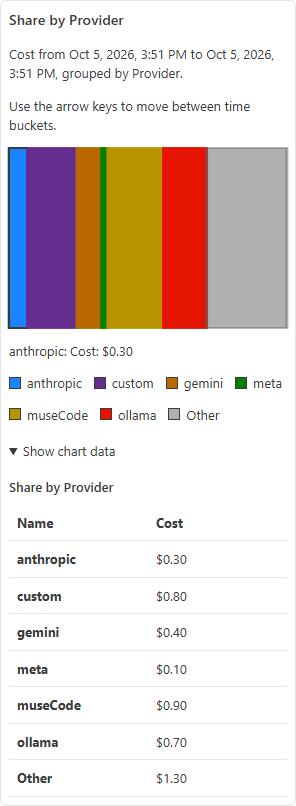
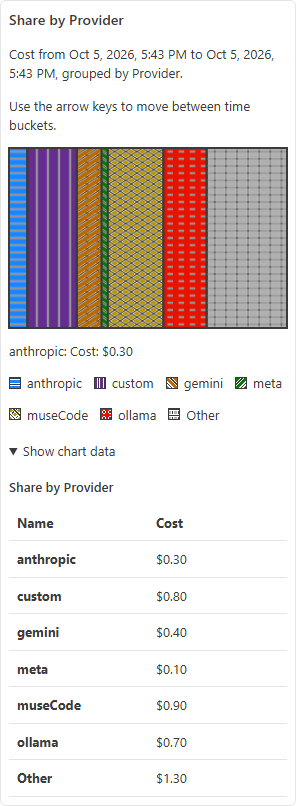
docs(usage): record review fix drills and final browser receipts
Record all four repaired findings, eight byte-exact failure drills,
107 passing unit tests and 480 passing production browser cases. Refresh
and inspect the three chart/narrow-layout screenshots, and retain the
named L/W integration dependencies without weakening any gate.

diff --git a/docs/certification/m102-u.md b/docs/certification/m102-u.md
@@ -2,7 +2,7 @@
 
 ## RVM102U correction receipts — FIXM102U, 2026-10-05
 
-All four review P2 findings are being repaired in lane U on the Windows 11
+All four review P2 findings are repaired in lane U on the Windows 11
 rig, with no dependency, protocol or gate change. The shared React page
 delivers each repair through VS Code, HTTP, JCEF, WebView2 and SWT; native
 editor installations and integrated gates remain the lead's certification.
@@ -68,6 +68,84 @@ again. The three entry/bridge/dialog files pass **49/49**, for **107/107**
 owned tests without filtering or skips. All five TypeScript projects,
 targeted ESLint and usage Stylelint pass. The browser matrix also now checks
 consecutive custom-date focus and JCEF/WebView2/SWT send failure recovery.
+
+Supplemental new-test controls also fire: replacing per-figure pattern ids
+with shared ids fails `keeps pattern references unique when multiple charts
+share the document` in the complete chart file, then removing the red
+legend motif fails `Missing legend pattern` in the complete four-theme
+contrast script. Both exit 1, restore byte-exact, and return to green:
+**20/20** chart tests and the whole contrast script pass. ChartFrame's
+restored SHA-256 is
[1 lines of base64/hex data omitted]
+Logs: `temp/fixm102u-{patternIds,legendCue}-red.log`. In total, **eight named
+drills** cover the four findings and the new pattern/cue checks.
+
+Both code commits (`dc758dc7`, `a49d3de1`) pass their normal ESLint,
+Stylelint where applicable, Prettier and Gitleaks hooks. After the second
+commit, all **14 changed source/test/harness files** match their pre-hook
+SHA-256 snapshots (`temp/fixm102u-source-hashes.json`). The final full
+`npm.cmd run typecheck` also exits 0 across all five projects.
+
+Final production compilation and every existing bundle-size cap pass:
+
+| Artifact              |   Bytes | Comparison with reviewed base |
+| --------------------- | ------: | ----------------------------- |
+| Chat eager JavaScript | 918,118 | unchanged; cap 921,600        |
+| Usage JavaScript      | 437,693 | +902                          |
+| Usage CSS             |   7,377 | +1,597                        |
+| Extension             | 566,512 | unchanged                     |
+| Model API             | 423,389 | unchanged                     |
+| ACP                   | 817,986 | unchanged                     |
+| Shared English        | 124,101 | unchanged                     |
+
+The chat eager graph contains no usage-page, usage-protocol, usage-table or
+usage-bridge input. Host-global checking passes, notices pass with the same
+84 packages, and `npm.cmd run duplication` passes with **zero clones in
+997 files**. No dependency, threshold, ignore, suppression or protocol is
+changed.
+
+**M102-U-INTEGRATION** remains the named pre-existing dependency in PLAN §9:
+
+- `npm.cmd run build` exits 1 only at W's two unregistered usage entry/split
+  roots, after compilation and size checks pass. The host-global and notices
+  checks skipped by that wrapper were run directly and pass.
+- `node scripts/check-l10n.mjs` exits 1 with the same **17** problems:
+  fourteen L-owned usage translations and three W-owned manifest keys.
+- `npm.cmd run deadcode` exits 1 with the same **four** usage harness roots
+  awaiting W's entry registration. No unused production file or export.
+- `npm.cmd run check:host-api` exits 1 with the same **one** generated-record
+  difference: 57 to 62 theme variables, awaiting W's combined regeneration.
+
+These dependencies are safe only for this isolated lane certification;
+M102INT must complete them and the full/hosted/installed-editor checks.
+All four review findings are fixed; **no review residual is left**. There
+were no paid/live model calls, credential reads, external network calls,
+installs, pushes, merges or rebases. Full quality remains the lead's gate
+under the rig/common brief.
+
+The fresh production browser sweep (`node test/harness/usage-check.mjs`)
+passes **440/440 pages**, exit 0: eleven scenarios × five bridges × four
+captured themes × 690/320 px. There are zero axe violations, unresolved
+checks, script errors or horizontal-overflow failures. The forty
+nine-provider cohorts add **160 consecutive valid date edits** with input
+identity/focus preserved through replies. The twenty-four native cohorts
+exercise a throwing Refresh sender after startup, localized error display,
+cleared busy state and successful retry through JCEF, WebView2 and SWT.
+Receipts: `temp/fixm102u-browser.log`, `temp/usage-a11y.json`.
+
+The three linked screenshot assets below are refreshed from this production
+sweep and opened for visual inspection: the 690 px cost plot, 320 px share
+plot, and long German fixture at 320 px. Patterns, foreground contours,
+wrapping legends, tables and controls remain visible. The German text is
+fixture wording; full translations remain L's dependency.
+
+The complete `node test/harness/usage-accounts.mjs` check passes **40/40**
+cases, exit 0, through all five bridges, four themes and both widths.
+Accessible meter text and the 90% warning remain correct, with zero axe
+violations, unresolved checks, script errors or page overflow. Receipt:
+`temp/fixm102u-accounts.log`, `temp/usage-accounts.json`. Together the final
+browser checks cover **480 passing cases**. Final changed-text Prettier
+checks and git whitespace checking pass; the source hashes remain exact.
 
 Rig: Windows 11, 2026-10-05. Base: lane 0 `7e55c5fb`.
 Only lane U files are changed. No dependencies, credentials, live calls or
